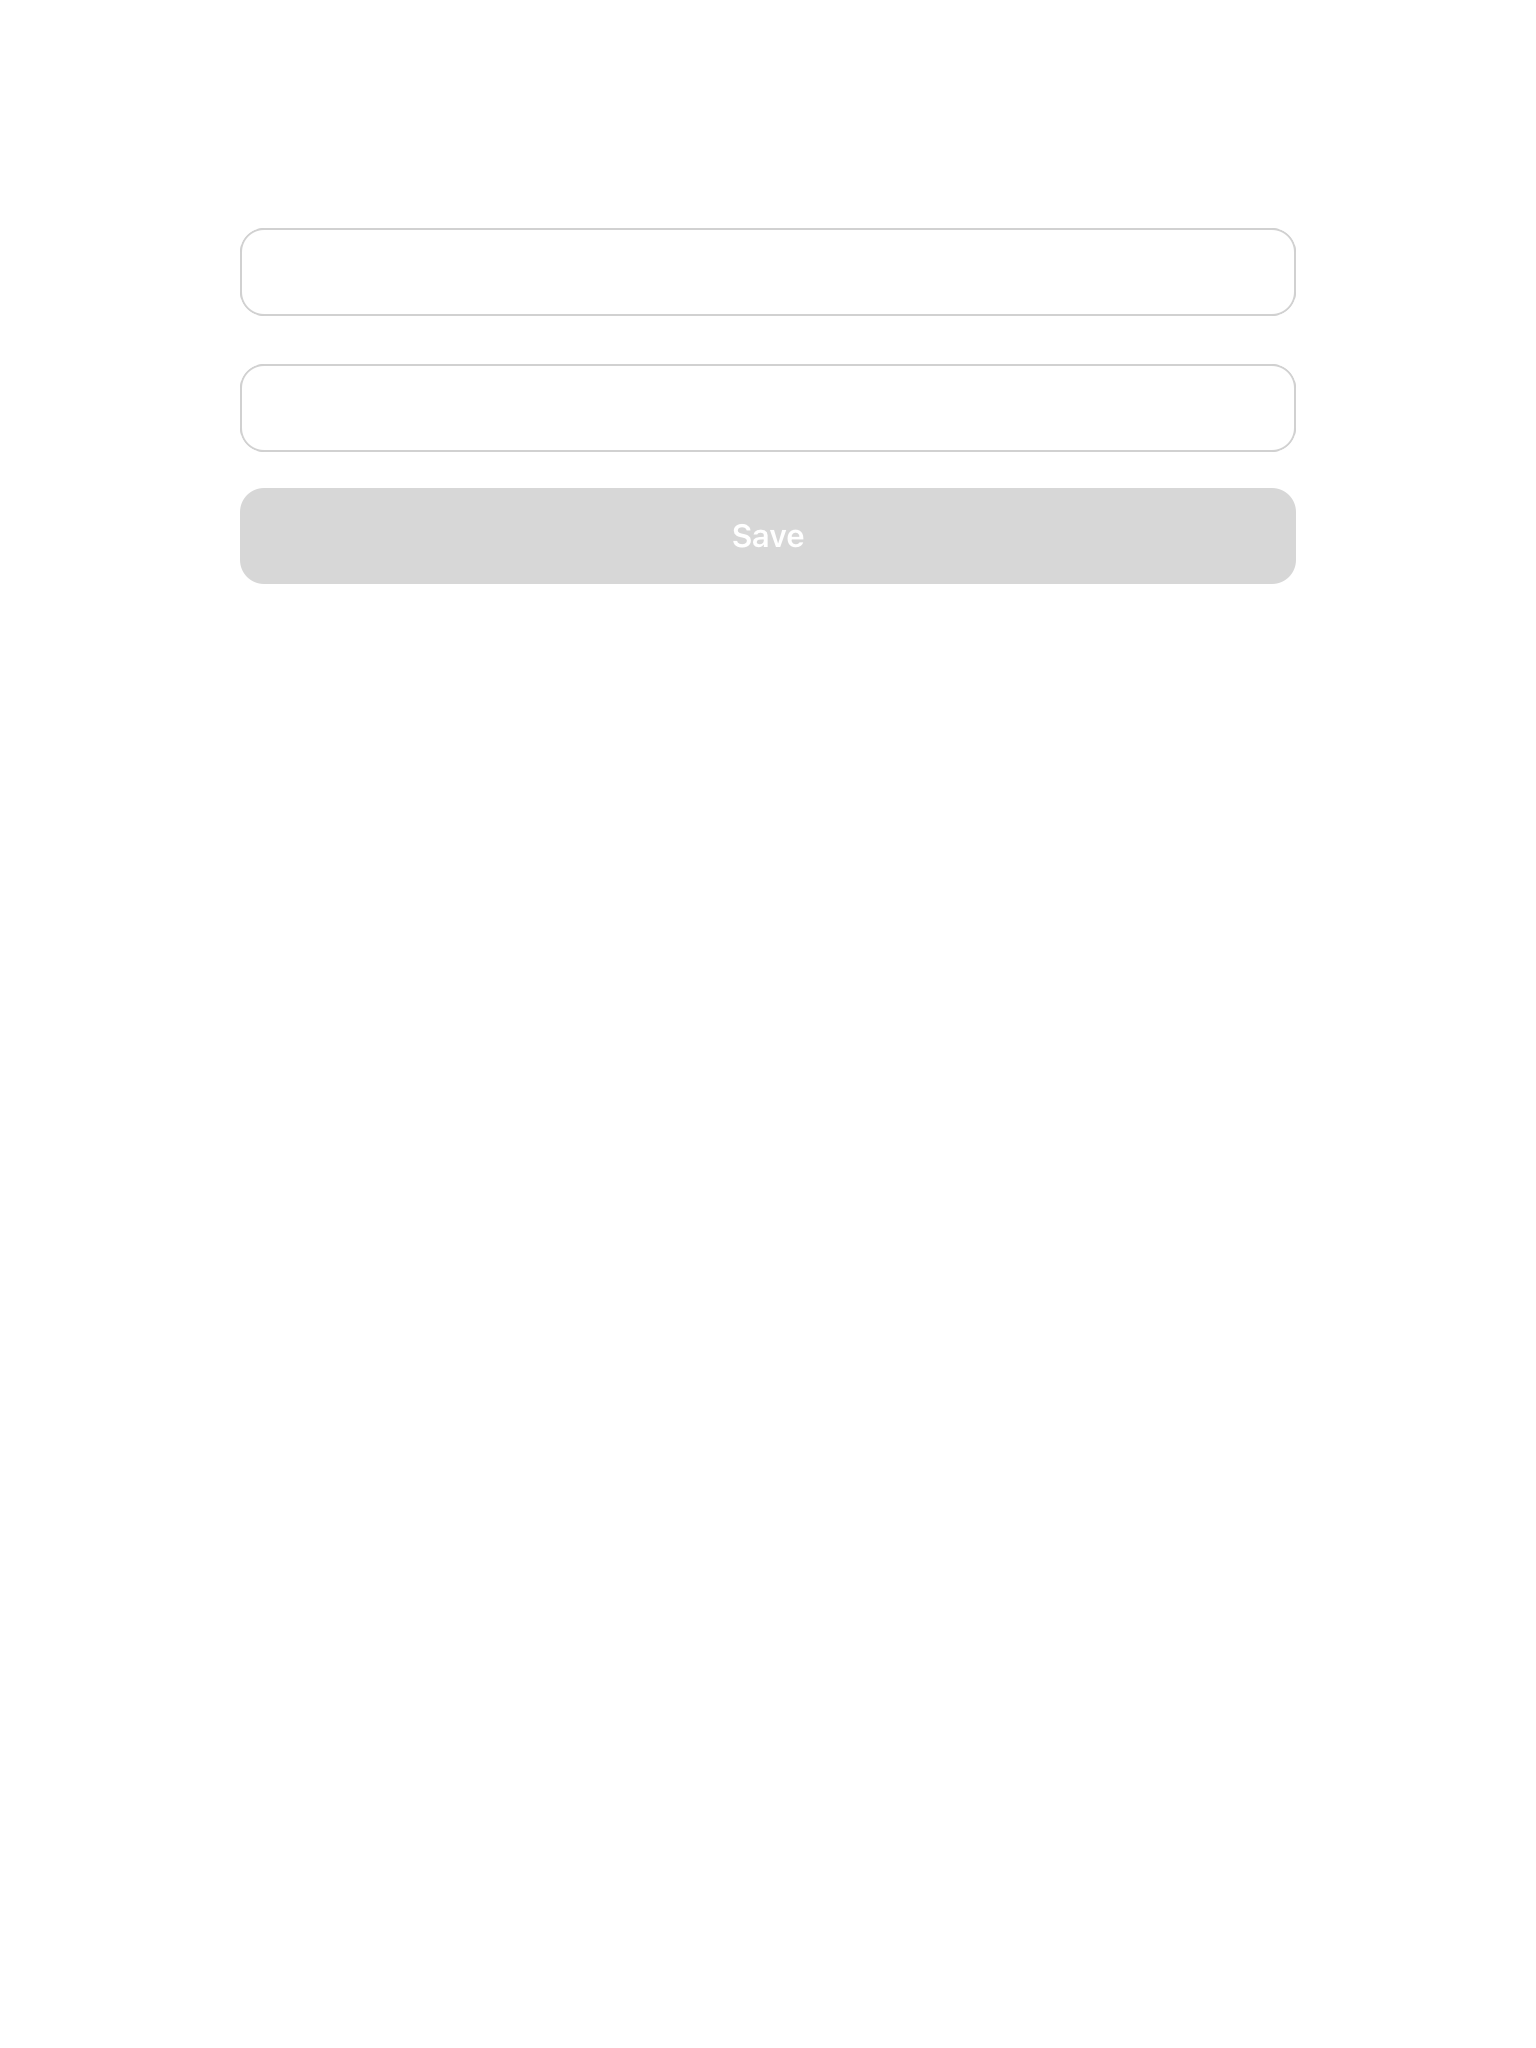
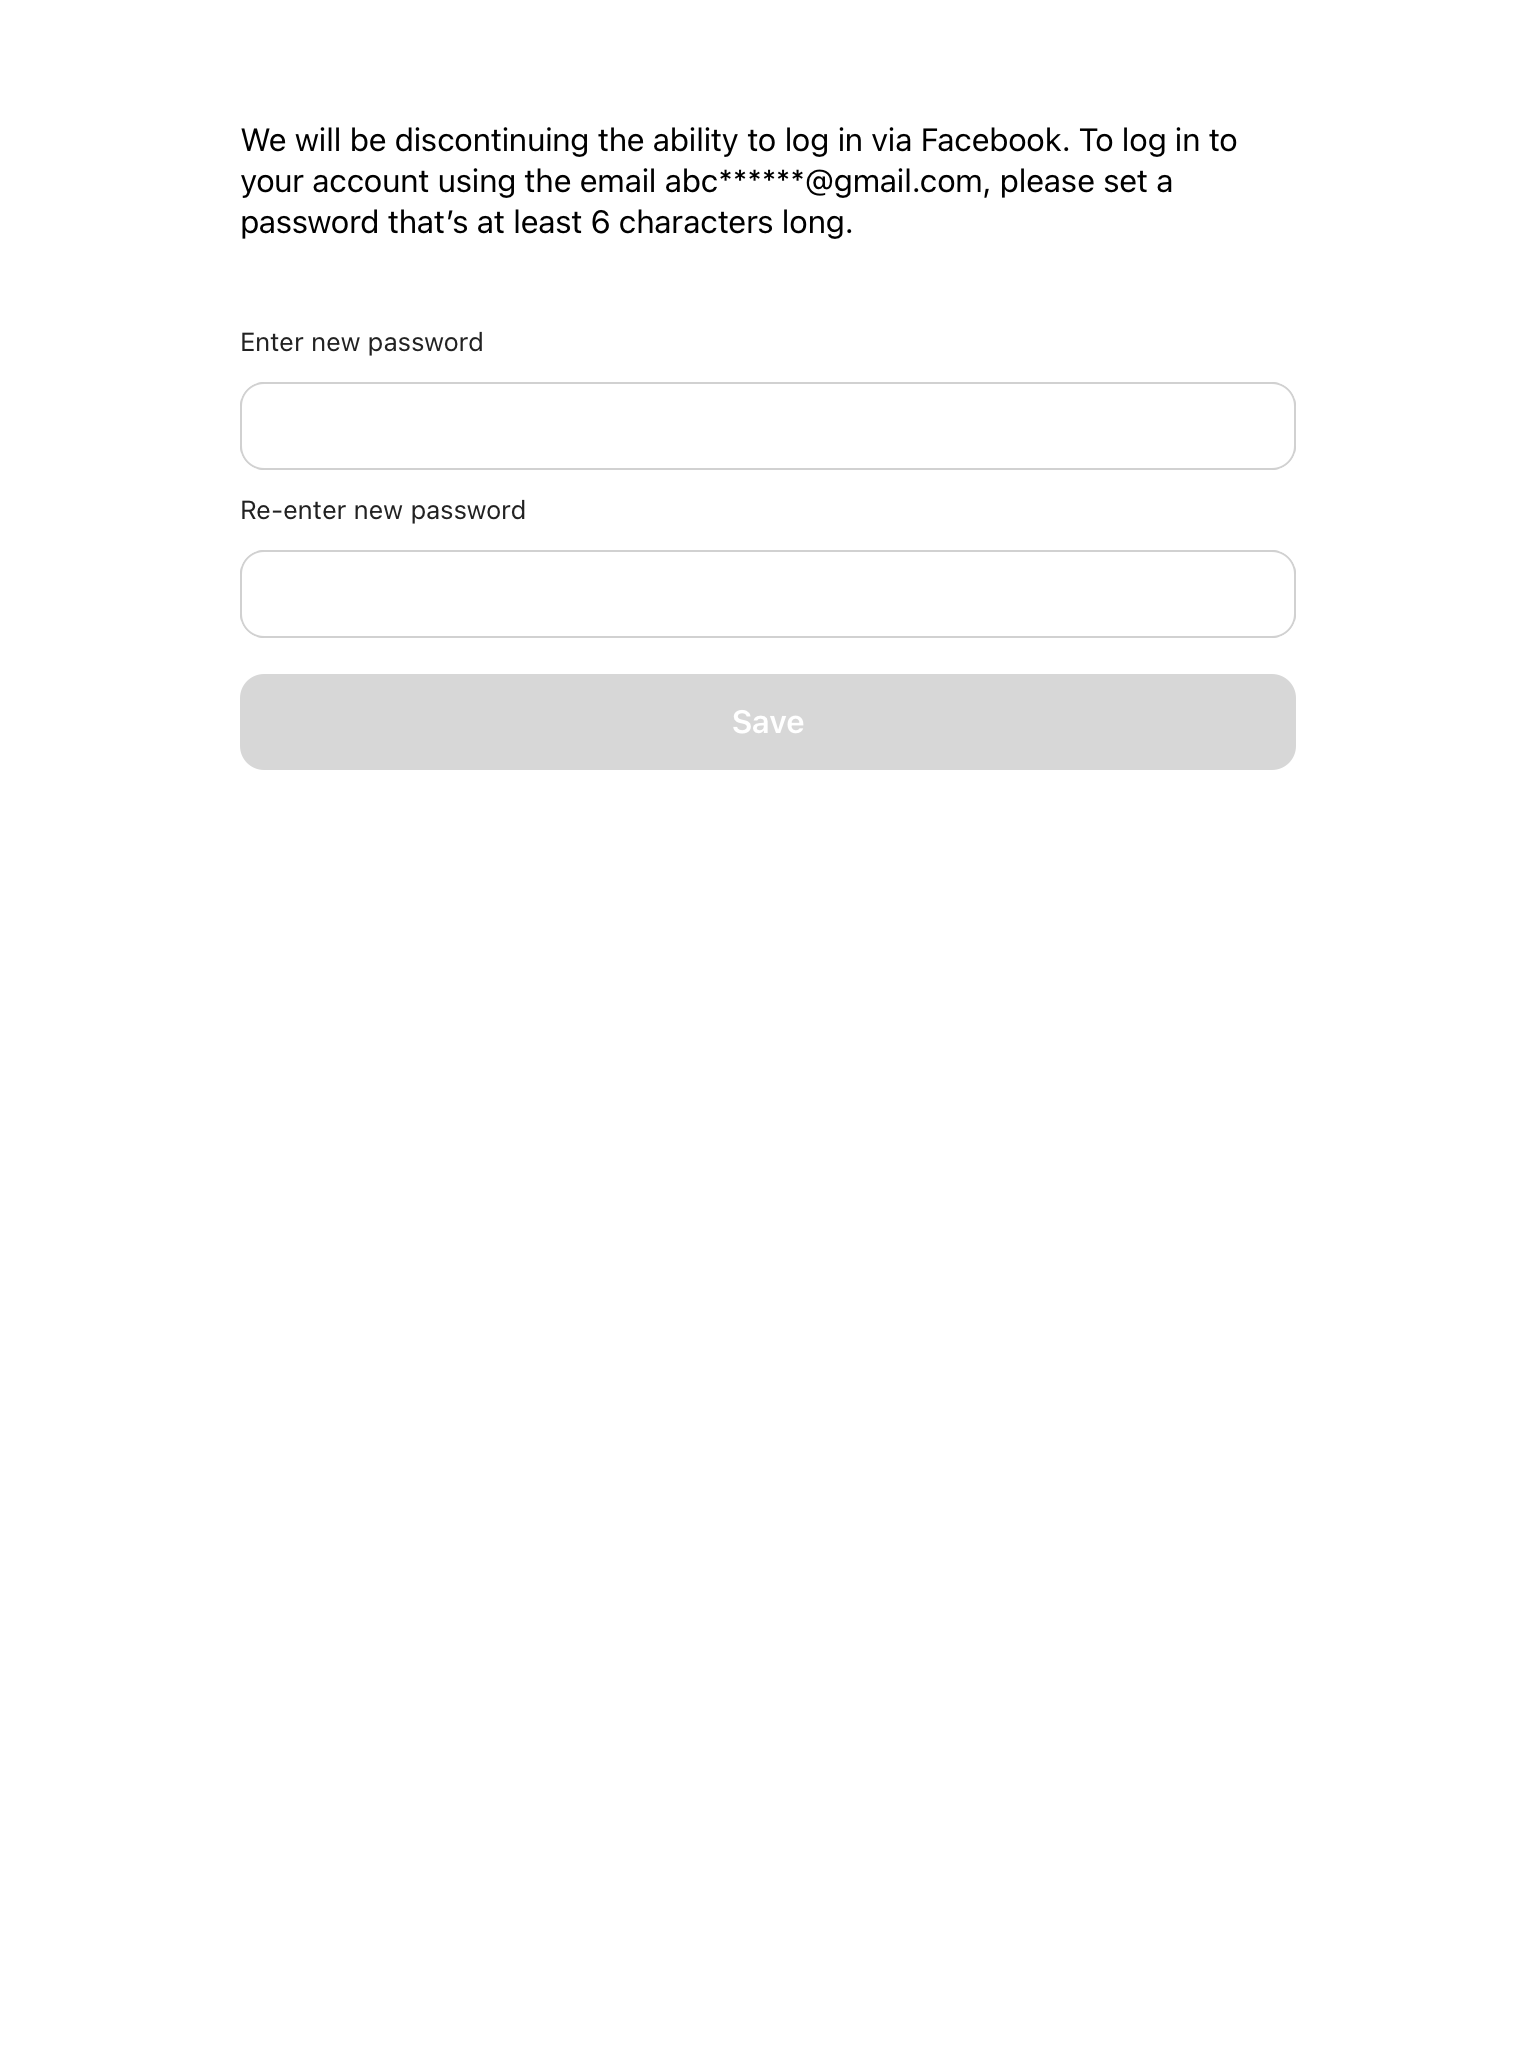
pr feedback

Changed region(s): [[0.1562, 0.2188, 0.8438, 0.375], [0.1562, 0.0625, 0.7812, 0.125], [0.1562, 0.1562, 0.3125, 0.1875]]

diff --git a/Library/ViewModels/SetYourPasswordViewModelTests.swift b/Library/ViewModels/SetYourPasswordViewModelTests.swift
@@ -4,53 +4,49 @@ import XCTest
 import ReactiveExtensions_TestHelpers
 
 final class SetYourPasswordViewModelTests: TestCase {
+  private let viewModel = SetYourPasswordViewModel()
   private let saveButtonIsEnabled = TestObserver<Bool, Never>()
   private let contextLabelText = TestObserver<String, Never>()
   private let newPasswordLabel = TestObserver<String, Never>()
   private let confirmPasswordLabel = TestObserver<String, Never>()
 
-  func test_init() {
-    _ = self.makeSUT(with: "test@email.com")
+  override func setUp() {
+    super.setUp()
 
+    self.viewModel.outputs.saveButtonIsEnabled.observe(self.saveButtonIsEnabled.observer)
+    self.viewModel.outputs.contextLabelText.observe(self.contextLabelText.observer)
+    self.viewModel.outputs.newPasswordLabel.observe(self.newPasswordLabel.observer)
+    self.viewModel.outputs.confirmPasswordLabel.observe(self.confirmPasswordLabel.observer)
+
+    self.viewModel.inputs.configureWith("test@email.com")
+    self.viewModel.inputs.viewDidLoad()
+  }
+
+  func test_init() {
+    self.contextLabelText
+      .assertValue("We will be discontinuing the ability to log in via Facebook. To log in to your account using the email test@email.com, please set a password that’s at least 6 characters long.")
+    self.newPasswordLabel.assertValue("Enter new password")
+    self.confirmPasswordLabel.assertValue("Re-enter new password")
     XCTAssertNil(self.saveButtonIsEnabled.lastValue)
   }
 
   func test_saveButtonIsEnabledWhenFormIsValid() {
-    let sut = self.makeSUT()
-
-    sut.inputs.newPasswordFieldDidChange("")
-    sut.inputs.confirmPasswordFieldDidChange("")
+    self.viewModel.inputs.newPasswordFieldDidChange("")
+    self.viewModel.inputs.confirmPasswordFieldDidChange("")
 
     self.saveButtonIsEnabled.assertLastValue(false)
 
-    sut.inputs.newPasswordFieldDidChange("somepassword")
+    self.viewModel.inputs.newPasswordFieldDidChange("somepassword")
 
     self.saveButtonIsEnabled.assertLastValue(false)
 
-    sut.inputs.confirmPasswordFieldDidChange("somepass")
+    self.viewModel.inputs.confirmPasswordFieldDidChange("somepass")
 
     self.saveButtonIsEnabled.assertLastValue(false)
 
-    sut.inputs.newPasswordFieldDidChange("asdfasdf")
-    sut.inputs.confirmPasswordFieldDidChange("asdfasdf")
+    self.viewModel.inputs.newPasswordFieldDidChange("asdfasdf")
+    self.viewModel.inputs.confirmPasswordFieldDidChange("asdfasdf")
 
     self.saveButtonIsEnabled.assertLastValue(true)
-  }
-
-  // MARK: - Helpers
-
-  private func makeSUT(with email: String = "", file _: StaticString = #filePath,
-                       line _: UInt = #line) -> SetYourPasswordViewModel {
-    let sut = SetYourPasswordViewModel()
-
-    sut.inputs.configureWith(email)
-    sut.inputs.viewDidLoad()
-
-    sut.outputs.saveButtonIsEnabled.observe(self.saveButtonIsEnabled.observer)
-    sut.outputs.contextLabelText.observe(self.contextLabelText.observer)
-    sut.outputs.newPasswordLabel.observe(self.newPasswordLabel.observer)
-    sut.outputs.confirmPasswordLabel.observe(self.confirmPasswordLabel.observer)
-
-    return sut
   }
 }

diff --git a/Kickstarter-iOS/Views/Controllers/SetYourPasswordViewController.swift b/Kickstarter-iOS/Views/Controllers/SetYourPasswordViewController.swift
@@ -96,29 +96,10 @@ public final class SetYourPasswordViewController: UIViewController {
   // MARK: - Bind View Model
 
   public override func bindViewModel() {
-    self.viewModel.outputs.contextLabelText
-      .observeForUI()
-      .observeValues { [weak self] text in
-        self?.contextLabel.text = text
-      }
-
-    self.viewModel.outputs.newPasswordLabel
-      .observeForUI()
-      .observeValues { [weak self] text in
-        self?.newPasswordLabel.text = text
-      }
-
-    self.viewModel.outputs.confirmPasswordLabel
-      .observeForUI()
-      .observeValues { [weak self] text in
-        self?.confirmPasswordLabel.text = text
-      }
-
-    self.viewModel.outputs.saveButtonIsEnabled
-      .observeForUI()
-      .observeValues { [weak self] isEnabled in
-        self?.saveButton.isEnabled = isEnabled
-      }
+    self.contextLabel.rac.text = self.viewModel.outputs.contextLabelText
+    self.newPasswordLabel.rac.text = self.viewModel.outputs.newPasswordLabel
+    self.confirmPasswordLabel.rac.text = self.viewModel.outputs.confirmPasswordLabel
+    self.saveButton.rac.enabled = self.viewModel.outputs.saveButtonIsEnabled
   }
 
   // MARK: - Functions
@@ -224,7 +205,7 @@ private let contextLabelStyle: LabelStyle = { label in
     |> \.textAlignment .~ NSTextAlignment.left
     |> \.lineBreakMode .~ NSLineBreakMode.byWordWrapping
     |> \.numberOfLines .~ 0
-    |> UILabel.lens.font %~ { _ in UIFont.ksr_body(size: 17) }
+    |> UILabel.lens.font %~ { _ in UIFont.ksr_body(size: 16) }
 }
 
 private let textFieldLabelStyle: LabelStyle = { label in
@@ -234,7 +215,7 @@ private let textFieldLabelStyle: LabelStyle = { label in
     |> \.numberOfLines .~ 0
     |> \.backgroundColor .~ .ksr_white
     |> \.textColor .~ UIColor.ksr_support_700
-    |> \.font %~ { _ in .ksr_callout() }
+    |> \.font %~ { _ in .ksr_callout(size: 13) }
 }
 
 private let textFieldStyle: TextFieldStyle = { textField in
@@ -242,6 +223,7 @@ private let textFieldStyle: TextFieldStyle = { textField in
     |> settingsNewPasswordFormFieldAutoFillStyle
     |> roundedStyle(cornerRadius: Styles.grid(2))
     |> UITextField.lens.textColor .~ .ksr_black
+    |> UITextField.lens.font %~ { _ in UIFont.ksr_body(size: 13) }
     |> \.textAlignment .~ .left
     |> \.borderStyle .~ UITextField.BorderStyle.roundedRect
     |> \.layer.borderColor .~ UIColor.ksr_support_300.cgColor

diff --git a/Kickstarter-iOS/Views/Controllers/SetYourPasswordViewControllerTests.swift b/Kickstarter-iOS/Views/Controllers/SetYourPasswordViewControllerTests.swift
@@ -13,10 +13,10 @@ final class SetYourPasswordViewControllerTests: TestCase {
   }
 
   func testView() {
-    combos([Language.en], [Device.phone4_7inch, Device.phone5_8inch, Device.pad]).forEach {
+    combos([Language.en], [Device.phone4_7inch, Device.pad]).forEach {
       language, device in
       withEnvironment(language: language) {
-        let controller = SetYourPasswordViewController.instantiate()
+        let controller = SetYourPasswordViewController.configuredWith(userEmail: "abc******@gmail.com")
         let (parent, _) = traitControllers(device: device, orientation: .portrait, child: controller)
 
         self.scheduler.run()
